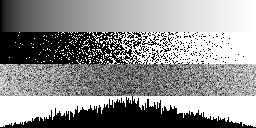
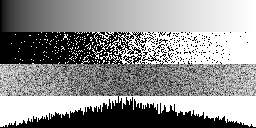
Moar determinism

diff --git a/main.cpp b/main.cpp
@@ -150,9 +150,6 @@ void DoTest(const char* fileName, const std::vector<float>& gradient, const LAMB
 
 int main(int argc, char** argv)
 {
-    // init random number generator
-    std::mt19937 rng(GetRNGSeed());
-
     // make the (linear) gradient image
     std::vector<float> gradient(c_gradientWidth*c_gradientHeight);
     {
@@ -163,8 +160,9 @@ int main(int argc, char** argv)
 
     // uniform white noise test
     DoTest("out_gradient_white_uniform.png", gradient,
-        [&rng] (size_t ix, size_t iy)
+        [] (size_t ix, size_t iy)
         {
+            static std::mt19937 rng(GetRNGSeed());
             static std::uniform_real_distribution<float> dist;
             return dist(rng);
         }
@@ -172,8 +170,9 @@ int main(int argc, char** argv)
 
     // triangular white noise test, made by averaging two white noise values
     DoTest("out_gradient_white_triangle_avg.png", gradient,
-        [&rng] (size_t ix, size_t iy)
+        [] (size_t ix, size_t iy)
         {
+            static std::mt19937 rng(GetRNGSeed());
             static std::uniform_real_distribution<float> dist;
             return (dist(rng) + dist(rng)) / 2;
         }
@@ -182,8 +181,9 @@ int main(int argc, char** argv)
     // triangular white noise test, made by reshaping a single white noise value
     // https://www.shadertoy.com/view/4t2SDh
     DoTest("out_gradient_white_triangle_reshape.png", gradient,
-        [&rng] (size_t ix, size_t iy)
+        [] (size_t ix, size_t iy)
         {
+            static std::mt19937 rng(GetRNGSeed());
             static std::uniform_real_distribution<float> dist;
             float nrnd0 = dist(rng);
 
